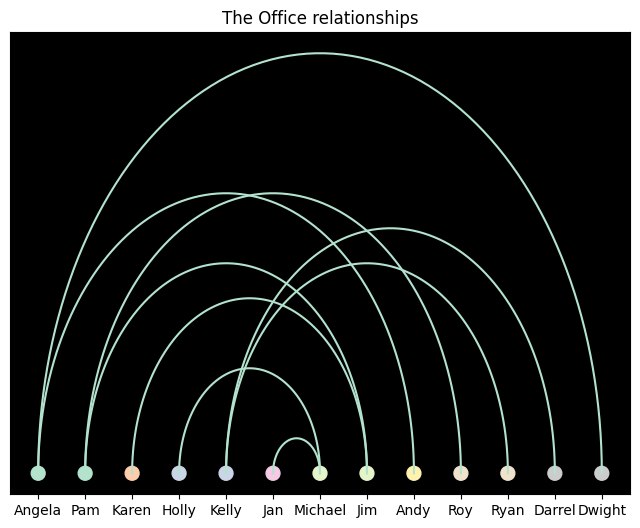
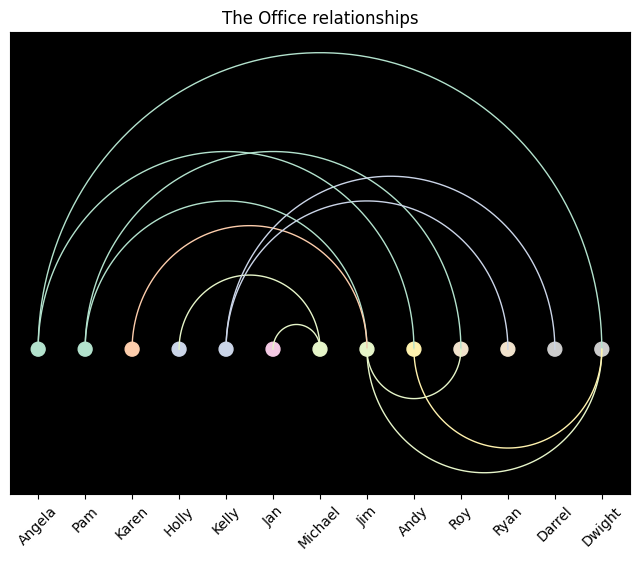
option to set custom colors, arc position and different line widths based on a numeric parameter.

diff --git a/arcplot/arcplot.py b/arcplot/arcplot.py
@@ -1,6 +1,8 @@
 import matplotlib.pyplot as plt
 from matplotlib import colormaps
+from matplotlib.colors import ListedColormap
 import numpy as np
+from operator import itemgetter
 
 
 class ArcDiagram:
@@ -11,18 +13,21 @@ class ArcDiagram:
         self.colors = plt.cm.copper(np.linspace(0, 1, len(nodes)))
         self.background_color = "white"
 
-    def connect(self, start_node, end_node):
+    def connect(self, start_node, end_node, thickness=0.1, arc_position="above"):
         start = self.nodes.index(start_node)
         end = self.nodes.index(end_node)
 
         arc_center = (start + end) / 2
         radius = abs(end - start) / 2
 
-        theta = np.linspace(0, 180, 100)
+        if arc_position == "below":
+            theta = np.linspace(180, 360, 100)
+        else:
+            theta = np.linspace(0, 180, 100)
 
         x = arc_center + radius * np.cos(np.radians(theta))
         y = radius * np.sin(np.radians(theta))
-        self.arc_coordinates.append((x, y))
+        self.arc_coordinates.append((x, y, start, thickness))
 
     def save_plot_as(self, file_name, resolution="figure"):
         fig, ax = self.__plot()
@@ -34,6 +39,9 @@ class ArcDiagram:
     def set_color_map(self, color_map_name):
         color_map = colormaps[color_map_name]
         self.colors = color_map(np.linspace(0, 1, len(self.nodes)))
+
+    def set_custom_colors(self, color_list):
+        self.colors = ListedColormap(color_list).colors
 
     def show_plot(self):
         fig, ax = self.__plot()
@@ -49,13 +57,27 @@ class ArcDiagram:
             node_positions, np.zeros_like(node_positions), color=self.colors, s=100
         )
 
+        max_value = max(self.arc_coordinates, key=itemgetter(3))[3]
         # plot connections as arcs
-        for x, y in self.arc_coordinates:
-            ax.plot(x, y, color=self.colors[0])
+        for x, y, index, thickness in self.arc_coordinates:
+            ax.plot(
+                x,
+                y,
+                color=self.colors[index],
+                zorder=1,
+                linewidth=self._map_to_linewidth(thickness, max_value),
+            )
 
+        plt.xticks(rotation=45)
         ax.set_xticks(node_positions)
         ax.set_xticklabels(self.nodes)
         ax.set_yticks([])
         ax.set_title(self.title)
 
         return fig, ax
+
+    def _map_to_linewidth(self, value, max_value):
+        if value < 1:
+            return 1
+        else:
+            return (10 * value) / max_value

diff --git a/main.py b/main.py
@@ -6,7 +6,7 @@ arc_diagram = ArcDiagram(nodes, title)
 arc_diagram.set_background_color("#c7a27d")
 arc_diagram.connect("The Good", "The Bad")
 arc_diagram.connect("The Good", "The Ugly")
-arc_diagram.connect("The Ugly", "The Bad")
+arc_diagram.connect("The Bad", "The Ugly")
 arc_diagram.save_plot_as("the-good.png")
 
 nodes = [
@@ -37,4 +37,59 @@ arc_diagram.connect("Kelly", "Ryan")
 arc_diagram.connect("Kelly", "Darrel")
 arc_diagram.connect("Angela", "Dwight")
 arc_diagram.connect("Angela", "Andy")
+arc_diagram.connect("Jim", "Roy", arc_position="below")
+arc_diagram.connect("Jim", "Dwight", arc_position="below")
+arc_diagram.connect("Andy", "Dwight", arc_position="below")
 arc_diagram.save_plot_as("the-office.png")
+
+nodes = [
+    "Rome",
+    "Naples",
+    "Florence",
+    "Bari",
+    "Taranto",
+    "Verona",
+    "Venice",
+    "Bologna",
+    "Bolzano",
+    "Milan",
+    "Turin",
+    "Genoa",
+]
+title = "Railway connection between Italian cities"
+arc_diagram = ArcDiagram(nodes, title)
+custom_colors = [
+    "#386641",
+    "#f2e8cf",
+    "#8b3422",
+    "#6f7714",
+    "#ff9b54",
+    "#e2d9c5",
+    "#9a8237",
+    "#dbab85",
+    "#d64620",
+    "#f6bd60",
+    "#283618",
+    "#a98467",
+]
+arc_diagram.set_custom_colors(custom_colors)
+arc_diagram.set_background_color("black")
+arc_diagram.connect("Milan", "Genoa", thickness=119)
+arc_diagram.connect("Milan", "Verona", thickness=140)
+arc_diagram.connect("Milan", "Turin", thickness=126)
+arc_diagram.connect("Milan", "Bologna", thickness=201)
+arc_diagram.connect("Rome", "Genoa", thickness=403)
+arc_diagram.connect("Rome", "Florence", thickness=232)
+arc_diagram.connect("Rome", "Naples", thickness=189)
+arc_diagram.connect("Rome", "Bari", thickness=375)
+arc_diagram.connect("Florence", "Genoa", thickness=200)
+arc_diagram.connect("Florence", "Bologna", thickness=80)
+arc_diagram.connect("Naples", "Taranto", thickness=252)
+arc_diagram.connect("Naples", "Bari", thickness=219)
+arc_diagram.connect("Venice", "Verona", thickness=120)
+arc_diagram.connect("Venice", "Bologna", thickness=131)
+arc_diagram.connect("Bolzano", "Verona", thickness=122)
+arc_diagram.connect("Bari", "Taranto", thickness=78)
+arc_diagram.connect("Genoa", "Turin", thickness=122)
+arc_diagram.save_plot_as("italian-railway.png")
+# arc_diagram.show_plot()

diff --git a/developer-notes.md b/developer-notes.md
@@ -12,3 +12,9 @@ poetry install # to install dependencies
 poetry build # to build pacakge
 poetry publish # to publish package
 ```
+
+```
+# if encountering following error on Debian based Linux: UserWarning: FigureCanvasAgg is non-interactive, and thus cannot be shown
+# the problem might be missing tkinter dependencies, try:
+sudo apt-get install python3-tk
+```
